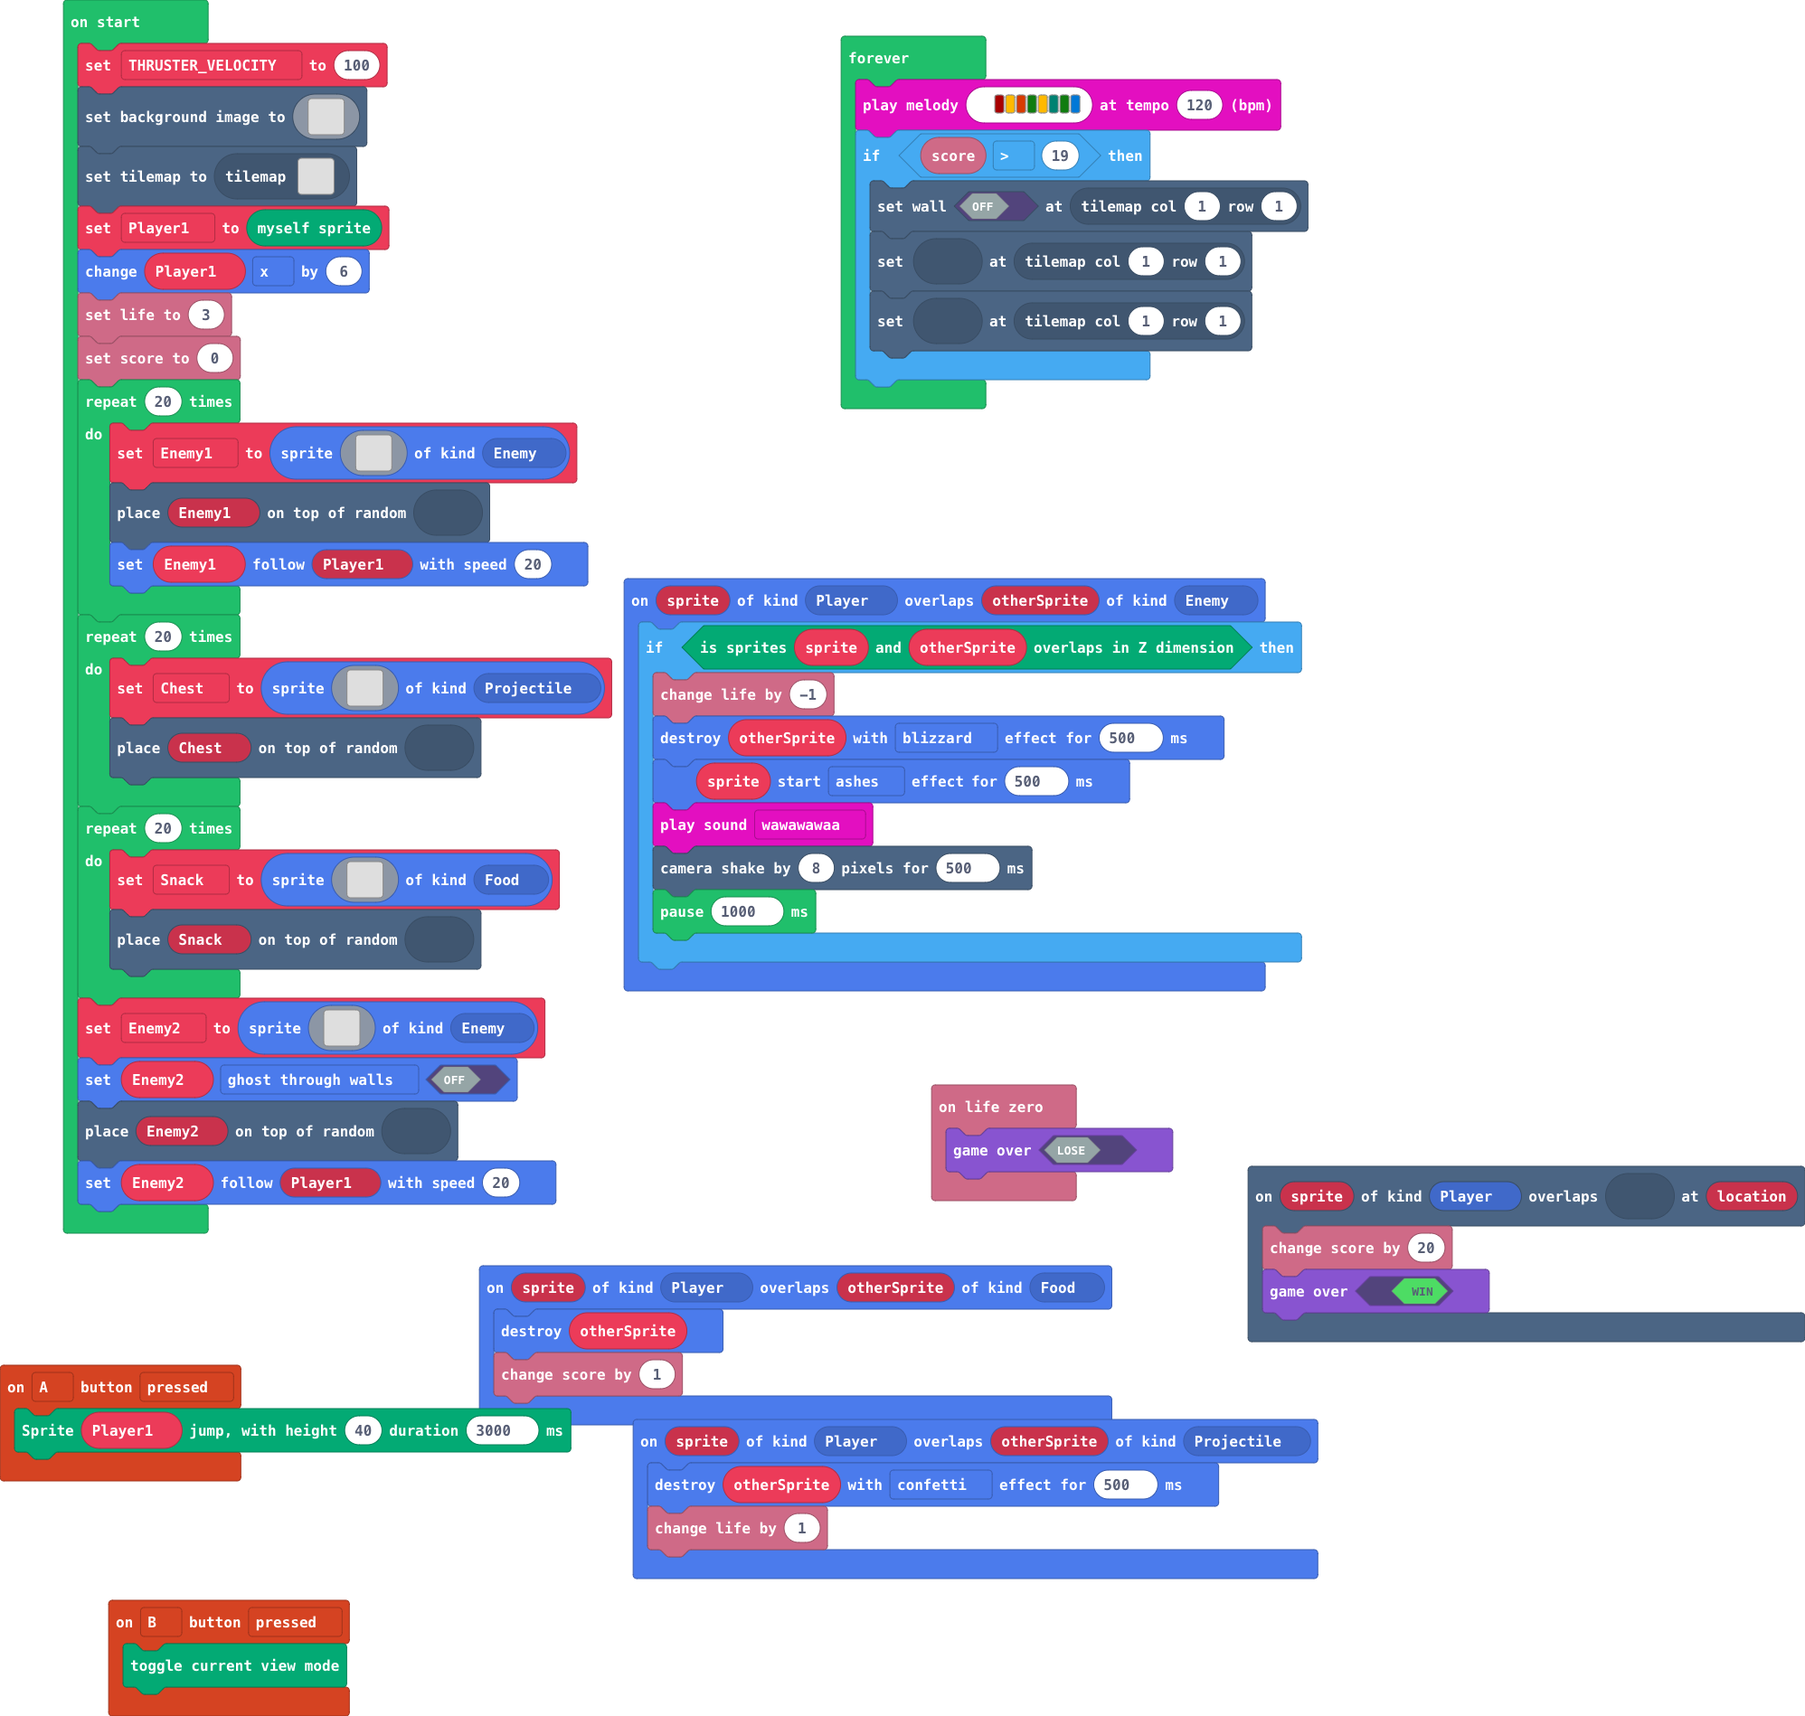
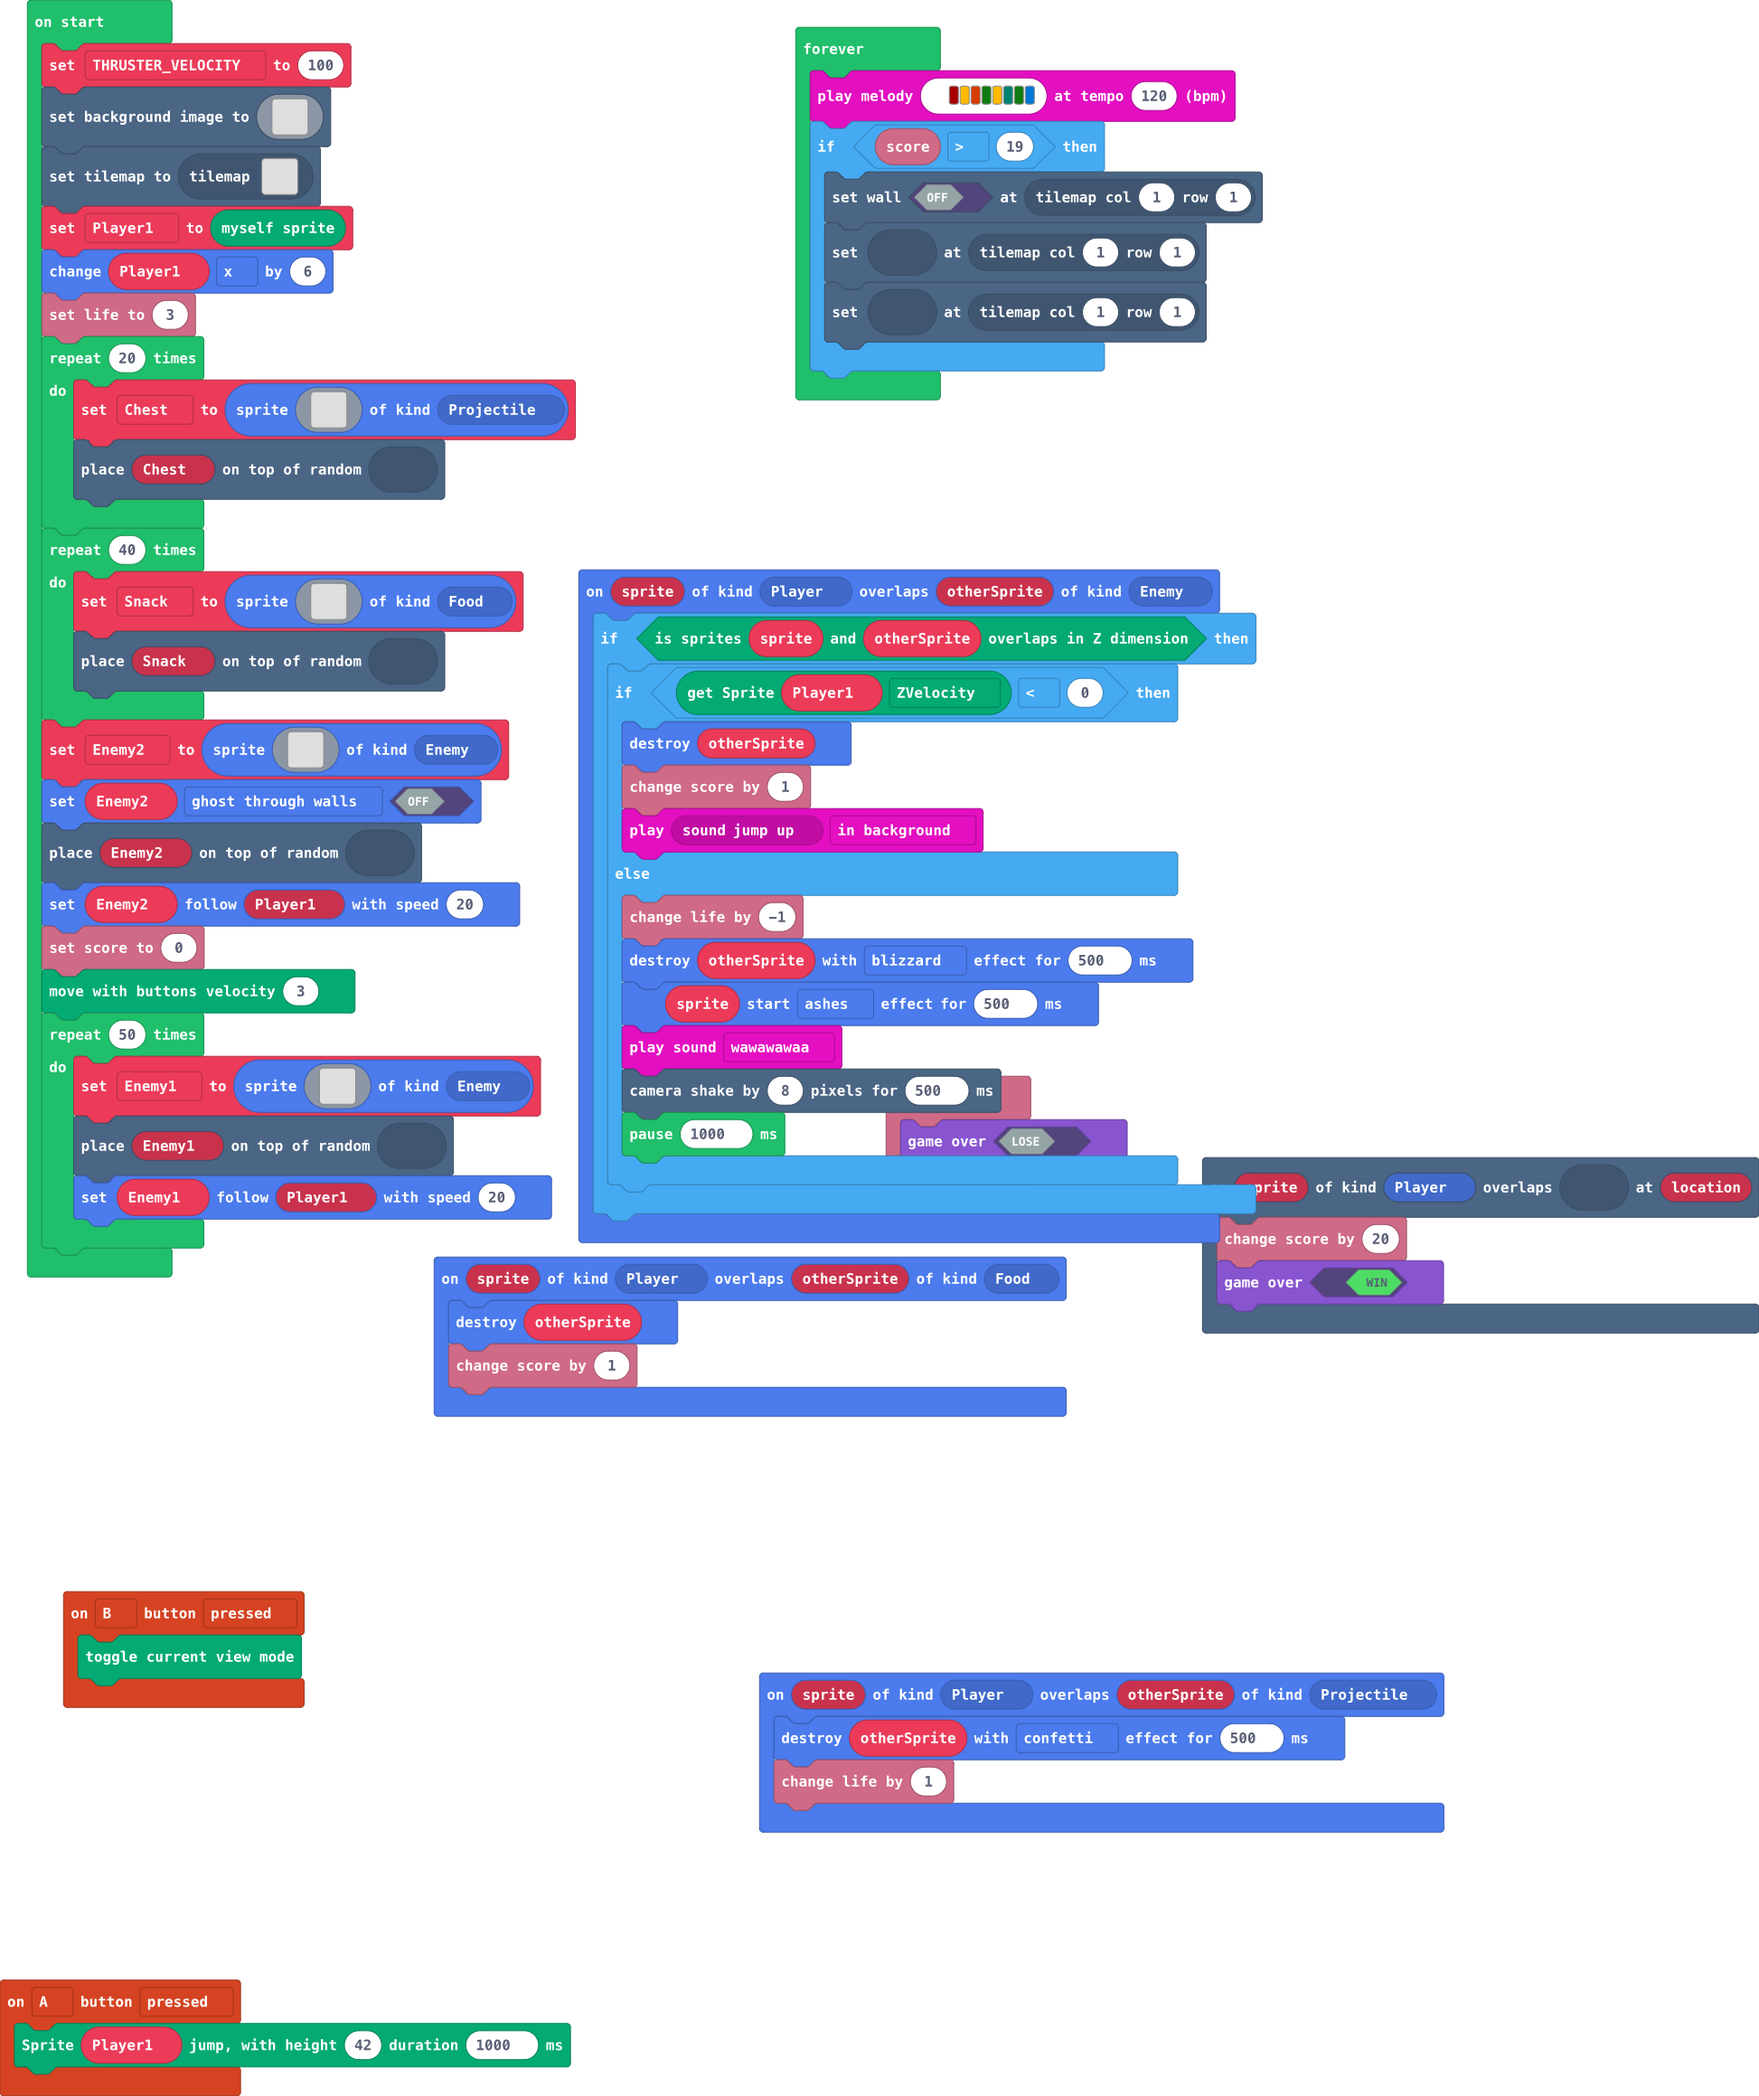
Update main.blocks, main.ts

diff --git a/main.ts b/main.ts
@@ -1,5 +1,6 @@
 namespace SpriteKind {
     export const Blast = SpriteKind.create()
+    export const Bomb = SpriteKind.create()
 }
 scene.onOverlapTile(SpriteKind.Player, assets.tile`myTile0`, function (sprite, location) {
     info.changeScoreBy(20)
@@ -9,7 +10,7 @@ controller.B.onEvent(ControllerButtonEvent.Pressed, function () {
     Render.toggleViewMode()
 })
 controller.A.onEvent(ControllerButtonEvent.Pressed, function () {
-    Render.jumpWithHeightAndDuration(Player1, 40, 3000)
+    Render.jumpWithHeightAndDuration(Player1, 42, 1000)
 })
 sprites.onOverlap(SpriteKind.Player, SpriteKind.Projectile, function (sprite, otherSprite) {
     otherSprite.destroy(effects.confetti, 500)
@@ -24,17 +25,23 @@ sprites.onOverlap(SpriteKind.Player, SpriteKind.Food, function (sprite, otherSpr
 })
 sprites.onOverlap(SpriteKind.Player, SpriteKind.Enemy, function (sprite, otherSprite) {
     if (Render.isSpritesOverlapZ(sprite, otherSprite)) {
-        info.changeLifeBy(-1)
-        otherSprite.destroy(effects.blizzard, 500)
-        sprite.startEffect(effects.ashes, 500)
-        music.wawawawaa.play()
-        scene.cameraShake(8, 500)
-        pause(1000)
+        if (Render.getSpriteAttribute(Player1, RCSpriteAttribute.ZVelocity) < 0) {
+            sprites.destroy(otherSprite)
+            info.changeScoreBy(1)
+            music.play(music.melodyPlayable(music.jumpUp), music.PlaybackMode.InBackground)
+        } else {
+            info.changeLifeBy(-1)
+            otherSprite.destroy(effects.blizzard, 500)
+            sprite.startEffect(effects.ashes, 500)
+            music.wawawawaa.play()
+            scene.cameraShake(8, 500)
+            pause(1000)
+        }
     }
 })
+let Enemy1: Sprite = null
 let Snack: Sprite = null
 let Chest: Sprite = null
-let Enemy1: Sprite = null
 let Player1: Sprite = null
 let THRUSTER_VELOCITY = 100
 scene.setBackgroundImage(img`
@@ -163,37 +170,6 @@ tiles.setCurrentTilemap(tilemap`level1`)
 Player1 = Render.getRenderSpriteVariable()
 Player1.x += 6
 info.setLife(3)
-info.setScore(0)
-for (let index = 0; index < 20; index++) {
-    Enemy1 = sprites.create(img`
-        ........................
-        ........................
-        ........................
-        ........................
-        ..........ffff..........
-        ........ff1111ff........
-        .......fb111111bf.......
-        .......f11111111f.......
-        ......fd11111111df......
-        ......fd11111111df......
-        ......fddd1111dddf......
-        ......fbdbfddfbdbf......
-        ......fcdcf11fcdcf......
-        .......fb111111bf.......
-        ......fffcdb1bdffff.....
-        ....fc111cbfbfc111cf....
-        ....f1b1b1ffff1b1b1f....
-        ....fbfbffffffbfbfbf....
-        .........ffffff.........
-        ...........fff..........
-        ........................
-        ........................
-        ........................
-        ........................
-        `, SpriteKind.Enemy)
-    tiles.placeOnRandomTile(Enemy1, assets.tile`transparency16`)
-    Enemy1.follow(Player1, 20)
-}
 for (let index = 0; index < 20; index++) {
     Chest = sprites.create(img`
         . . b b b b b b b b b b b b . . 
@@ -215,7 +191,7 @@ for (let index = 0; index < 20; index++) {
         `, SpriteKind.Projectile)
     tiles.placeOnRandomTile(Chest, assets.tile`transparency16`)
 }
-for (let index = 0; index < 20; index++) {
+for (let index = 0; index < 40; index++) {
     Snack = sprites.create(img`
         . . . . . . . . . . . . . . . . 
         . . . . . . . . . . . . . . . . 
@@ -265,6 +241,38 @@ let Enemy2 = sprites.create(img`
 Enemy2.setFlag(SpriteFlag.GhostThroughWalls, false)
 tiles.placeOnRandomTile(Enemy2, assets.tile`transparency16`)
 Enemy2.follow(Player1, 20)
+info.setScore(0)
+Render.moveWithController(3)
+for (let index = 0; index < 50; index++) {
+    Enemy1 = sprites.create(img`
+        ........................
+        ........................
+        ........................
+        ........................
+        ..........ffff..........
+        ........ff1111ff........
+        .......fb111111bf.......
+        .......f11111111f.......
+        ......fd11111111df......
+        ......fd11111111df......
+        ......fddd1111dddf......
+        ......fbdbfddfbdbf......
+        ......fcdcf11fcdcf......
+        .......fb111111bf.......
+        ......fffcdb1bdffff.....
+        ....fc111cbfbfc111cf....
+        ....f1b1b1ffff1b1b1f....
+        ....fbfbffffffbfbfbf....
+        .........ffffff.........
+        ...........fff..........
+        ........................
+        ........................
+        ........................
+        ........................
+        `, SpriteKind.Enemy)
+    tiles.placeOnRandomTile(Enemy1, assets.tile`transparency16`)
+    Enemy1.follow(Player1, 20)
+}
 forever(function () {
     music.playMelody("C5 A B G A F G E ", 120)
     if (info.score() > 19) {
